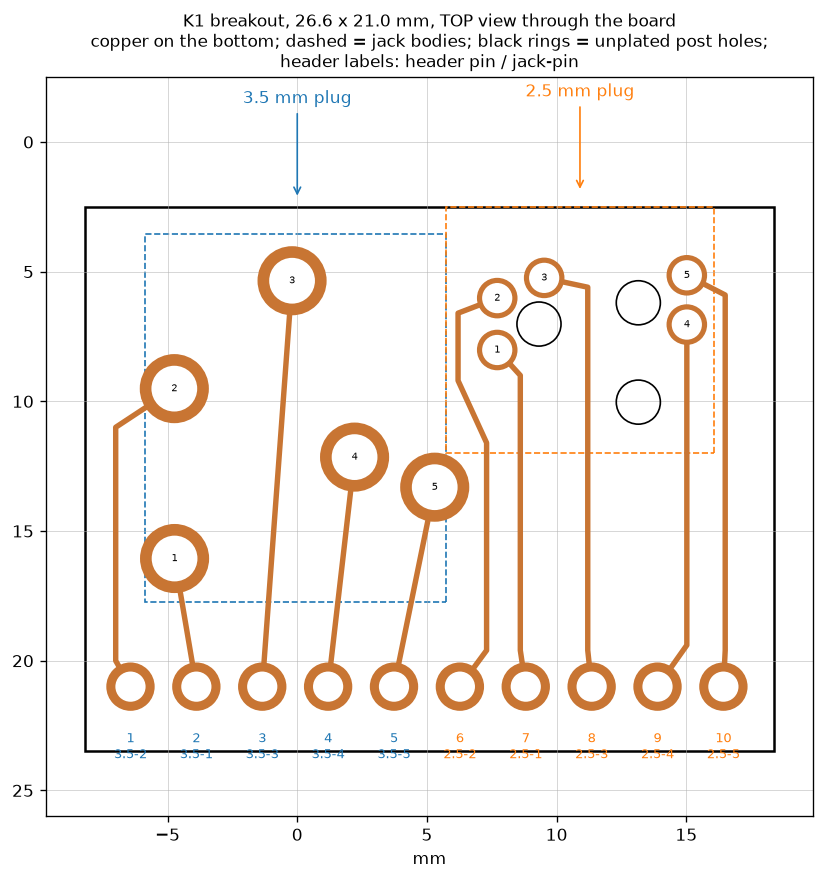
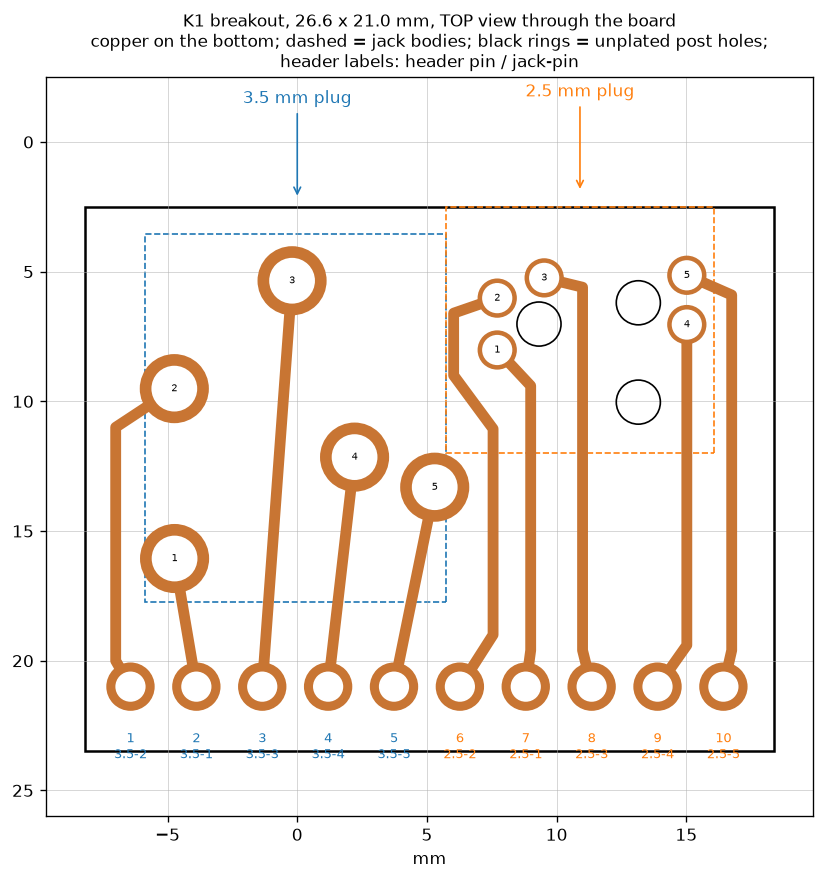
K1 breakout v2: 1.0 mm traces, gaps sized to the real V-bit groove
The first board's grooves measured ~0.5 mm wide (a 2.6 mm pad as the
ruler), not the 0.17 mm a sharp 20-degree tip would cut, so its 0.5 mm
traces came out ~0.3 mm. v2 keeps the traces at their intended width and
lets neighbouring grooves overlap instead:

- 1.0 mm tracks (no mask or plating on a milled board to hold thin copper
  down while soldering; electrically ~0.05 mm would do)
- clearance 0.45 mm = one groove; pcb2gcode mill-diameters/isolation-width
  0.45, so the bit's centre stays 0.225 mm off copper and the real 0.5 mm
  groove shaves at most 0.025 mm; one pass, shared where traces are close
- lanes 6/7/8/10 re-routed round the 2.5 jack; its pads 1.45 mm (pins 1.9
  mm apart). KiCad DRC: 0 violations, 0 unconnected
- path-finding-limit=0: always lift between grooves (links at depth slice
  copper)
- drill and outline stop at -1.4, 0.2 mm short of the bed (no spoilboard
  yet); no tabs, the board snaps out

Cut 2026-10-16/17. Board 4 was drilled FIRST, then the V-bit was centred
by hand in one drilled hole and the traces aligned to it: every hole sits
centred in its pad. (Board 3, drilled after the traces, came out ~1 mm off.)

diff --git a/pcb/k1/board.py b/pcb/k1/board.py
@@ -4,8 +4,9 @@ every jack pin routed to a 10-pin 0.1" header that plugs into a breadboard.
 
     .venv/bin/python pcb/k1/board.py   ->   pcb/k1/k1-breakout.kicad_pcb
 
-Milled in-house, so: copper on the bottom only, 0.5 mm tracks, 0.4 mm
-clearance (k1-breakout.kicad_dru), two drill sizes. The parts sit on top;
+Milled in-house, so: copper on the bottom only, 1.0 mm tracks (for hand
+soldering: no mask or plating to hold thin copper down), 0.45 mm clearance =
+one real V-bit groove (k1-breakout.kicad_dru), two drill sizes. The parts sit on top;
 the header's long pins point down into the breadboard. All 10 jack pins come
 out, unnamed: which pin is tip/ring/sleeve/switch gets mapped on the bench.
 Jack positions come from the measured k1_jacks.json (top view, mm, origin =
@@ -21,11 +22,11 @@ sys.path.insert(0, str(HERE.parent))
 from kicad import Board  # noqa: E402
 
 OFFSET = (30.0, 30.0)  # the footprint frame sits here on the KiCad page
-TRACK = 0.5
+TRACK = 1.0
 # Pads: ring = (pad - drill) / 2. The 2.5's pins are only 1.9-2.0 mm apart,
-# so its pads stay at 1.5 to leave 0.4 mm between them
+# so its pads stay at 1.45 to leave one groove (0.45 mm) between them
 PIN_35 = {"size": 2.6, "drill": 1.7}  # 1.32 mm tabs; 1.7 fit the test plate
-PIN_25 = {"size": 1.5, "drill": 1.1}  # 0.76 mm pins
+PIN_25 = {"size": 1.45, "drill": 1.1}  # 0.76 mm pins
 POST_DRILL = 1.7  # the 2.5's plastic posts: holes, no copper
 HEADER = {"size": 1.8, "drill": 1.1}  # 0.64 mm square pins
 HEADER_Y = 21.0
@@ -43,11 +44,12 @@ ROUTES = [
     (3, "3.5", 3, []),
     (4, "3.5", 4, []),
     (5, "3.5", 5, []),
-    (6, "2.5", 2, [(6.2, 6.6), (6.2, 9.2), (7.3, 11.6), (7.3, 19.6)]),  # left of 2.5 pin 1, right of 3.5 pin 5
-    (7, "2.5", 1, [(8.6, 9.0), (8.6, 19.6)]),  # behind the post at (9.32, 7.02)
-    (8, "2.5", 3, [(11.2, 5.6), (11.2, 19.6)]),  # between the two post columns
+    # Left round 2.5 pin 1, then right again before 3.5 pin 5's pad
+    (6, "2.5", 2, [(6.03, 6.6), (6.03, 9.0), (7.55, 11.06), (7.55, 19.0)]),
+    (7, "2.5", 1, [(9.0, 9.4), (9.0, 19.6)]),  # behind the post at (9.32, 7.02)
+    (8, "2.5", 3, [(11.0, 5.6), (11.0, 19.6)]),  # between the two post columns
     (9, "2.5", 4, [(15.02, 19.4)]),
-    (10, "2.5", 5, [(16.5, 5.9), (16.5, 19.6)]),  # round the outside of 2.5 pin 4
+    (10, "2.5", 5, [(16.75, 5.9), (16.75, 19.6)]),  # round the outside of 2.5 pin 4
 ]
 
 
